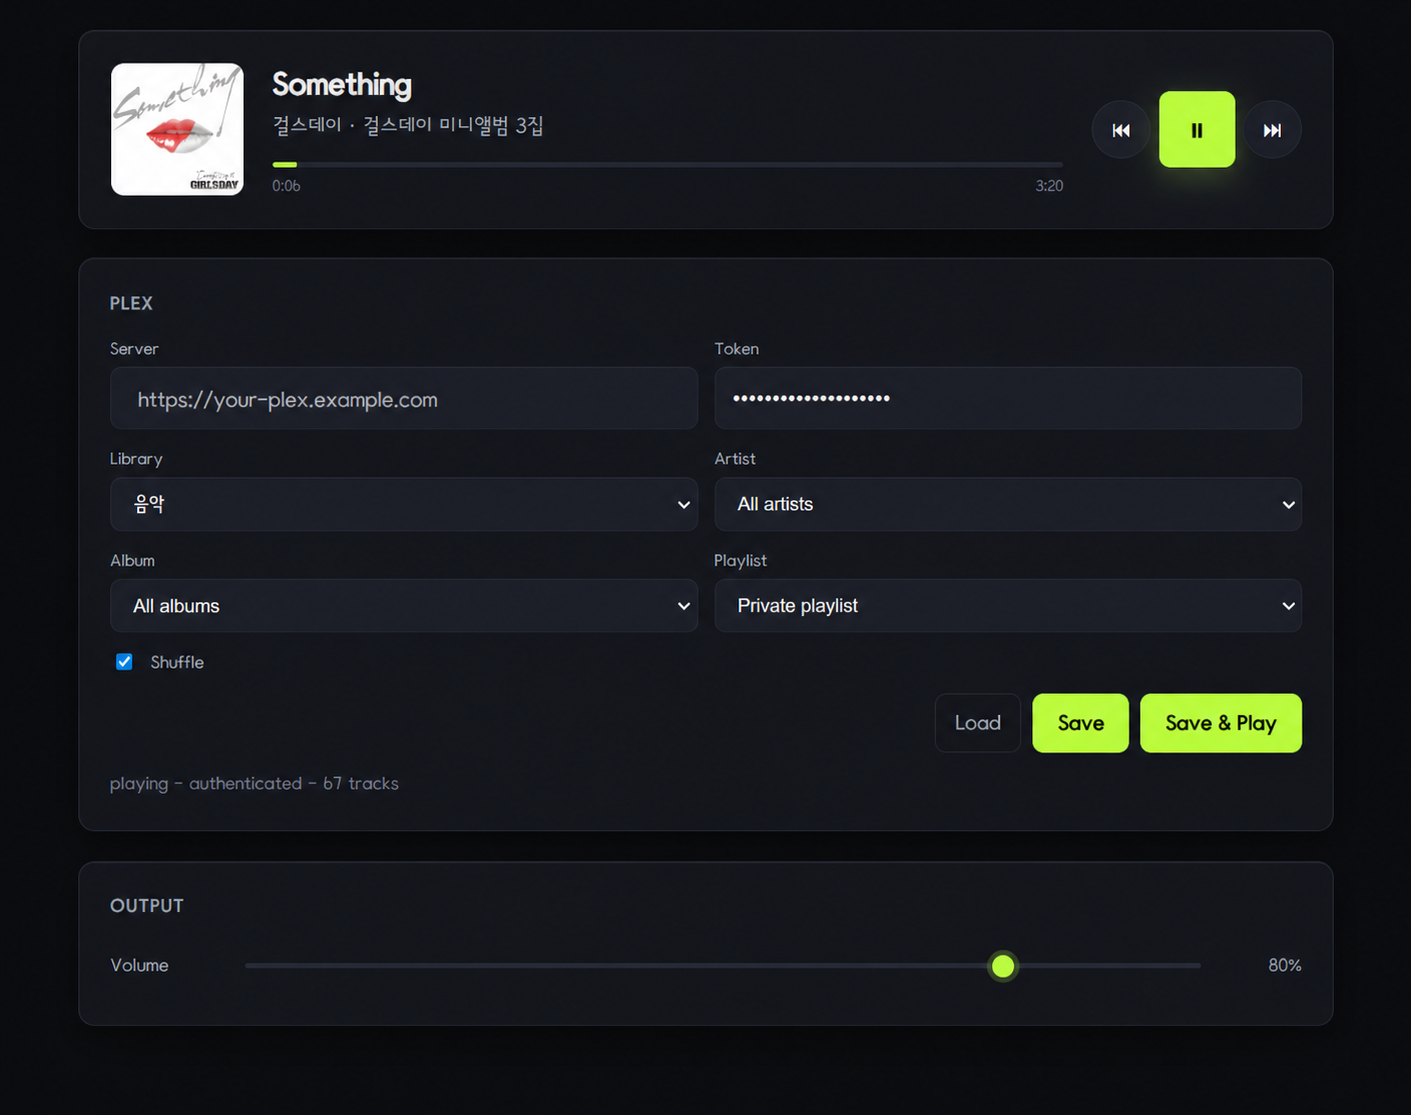
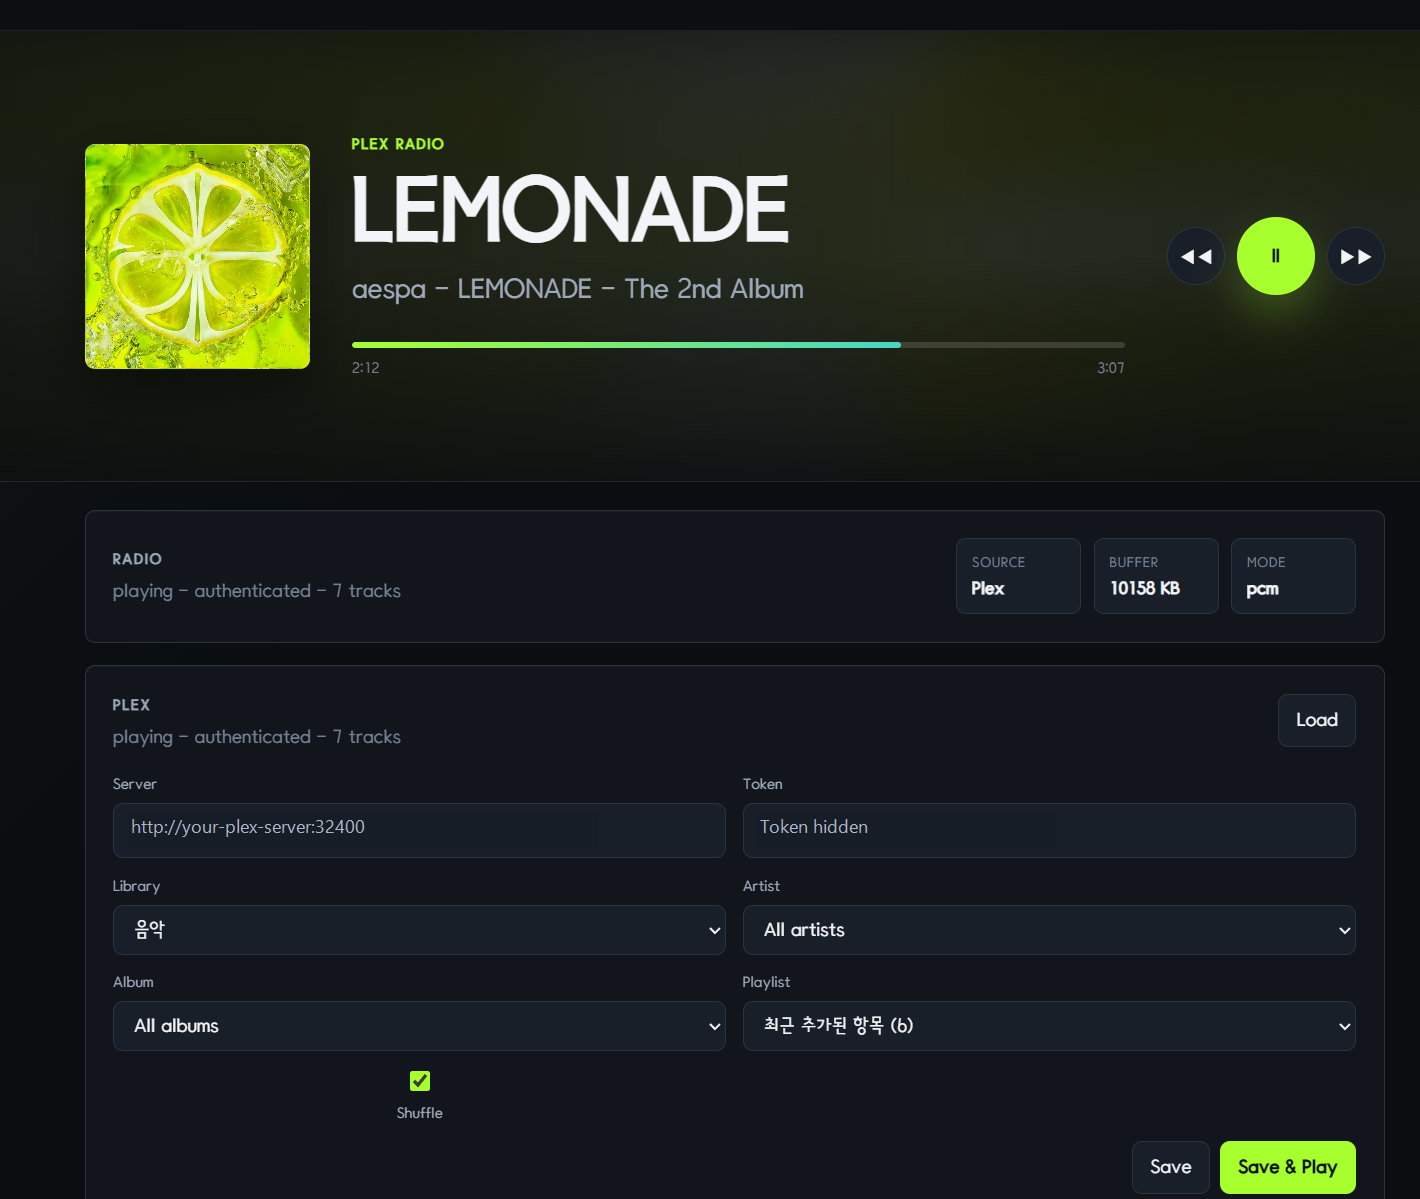
Refresh release notes and dashboard screenshot

diff --git a/README.md b/README.md
@@ -2,7 +2,7 @@
 
 Korean README: [README.ko.md](README.ko.md)
 
-Current version: `v0.1.3`
+Current version: `v0.1.4`
 
 Based on [FH6 Universal Radio](https://github.com/g0ldyy/fh6-universal-radio)
 by g0ldyy.
@@ -29,7 +29,7 @@ dashboard for Plex library, artist, album, and playlist playback.
 This is experimental and may break after game updates. Keep a backup of your
 install and use it at your own risk.
 
-`v0.1.3` merges selected upstream runtime improvements while keeping the
+`v0.1.4` merges selected upstream runtime improvements while keeping the
 dashboard Plex-focused. It adds a shared ffmpeg path fallback, optional Plex
 loudness normalization, optional 5-band EQ, and more tolerant child-process
 job handling.
